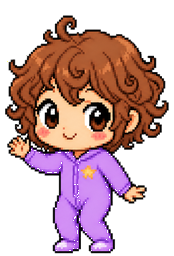
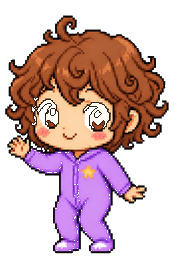
Let the LCD swap a painted desk loop with a girl who sits in the same night room.

diff --git a/Sources/Bed/Chrome.swift b/Sources/Bed/Chrome.swift
@@ -46,10 +46,13 @@ enum PixelAsset {
         let candidates = [
             Bundle.main.resourceURL?.appendingPathComponent(file),
             Bundle.main.resourceURL?.appendingPathComponent("dancer/\(file)"),
+            Bundle.main.resourceURL?.appendingPathComponent("desk/\(file)"),
             URL(fileURLWithPath: FileManager.default.currentDirectoryPath)
                 .appendingPathComponent("Resources/\(file)"),
             URL(fileURLWithPath: FileManager.default.currentDirectoryPath)
                 .appendingPathComponent("Resources/dancer/\(file)"),
+            URL(fileURLWithPath: FileManager.default.currentDirectoryPath)
+                .appendingPathComponent("Resources/desk/\(file)"),
         ]
         return candidates.compactMap { $0 }.first {
             FileManager.default.fileExists(atPath: $0.path)
@@ -61,10 +64,15 @@ enum PixelAsset {
     }
 }
 
+enum LCDScene {
+    case desk(playing: Bool, reduceMotion: Bool)
+    case dancer(playing: Bool, reduceMotion: Bool)
+}
+
 struct LCDPanel<Content: View>: View {
     var lit: Bool
     var snow: Double
-    var backdrop: String? = nil
+    var scene: LCDScene = .desk(playing: false, reduceMotion: false)
     @ViewBuilder var content: () -> Content
 
     private let lip: CGFloat = 7
@@ -89,11 +97,7 @@ struct LCDPanel<Content: View>: View {
 
     private var glass: some View {
         ZStack {
-            if let backdrop {
-                SceneBackdrop(name: backdrop, dim: lit ? 0.10 : 0.22)
-            } else {
-                Rectangle().fill(BedPalette.outline)
-            }
+            tube
             RetroScreen(lit: lit)
             if snow > 0 {
                 PixelSnow()
@@ -101,6 +105,16 @@ struct LCDPanel<Content: View>: View {
             }
         }
         .allowsHitTesting(false)
+    }
+
+    @ViewBuilder
+    private var tube: some View {
+        switch scene {
+        case .desk(let playing, let reduceMotion):
+            DeskTube(playing: playing, reduceMotion: reduceMotion, lit: lit)
+        case .dancer(let playing, let reduceMotion):
+            DancerTube(playing: playing, reduceMotion: reduceMotion, lit: lit)
+        }
     }
 
     private var bezel: some View {
@@ -207,38 +221,122 @@ private struct PixelSnow: View {
     }
 }
 
+enum Face: String {
+    case desk
+    case dancer
+}
+
+struct FaceToggle: View {
+    @Binding var face: Face
+
+    var body: some View {
+        HStack(spacing: 5) {
+            faceButton(.desk, title: "DESK")
+            Text("/")
+                .foregroundStyle(BedPalette.cream.opacity(0.18))
+            faceButton(.dancer, title: "GIRL")
+        }
+        .font(PixelFont.ui(6))
+        .fixedSize(horizontal: true, vertical: true)
+        .accessibilityElement(children: .contain)
+        .accessibilityLabel("Screen")
+    }
+
+    private func faceButton(_ value: Face, title: String) -> some View {
+        let selected = face == value
+        return Button(title) {
+            face = value
+        }
+        .buttonStyle(.plain)
+        .foregroundStyle(BedPalette.cream.opacity(selected ? 0.62 : 0.28))
+        .accessibilityLabel(accessName(value))
+        .accessibilityAddTraits(selected ? .isSelected : [])
+    }
+
+    private func accessName(_ value: Face) -> String {
+        switch value {
+        case .desk: return "Desk image"
+        case .dancer: return "Dancing girl"
+        }
+    }
+}
+
+private struct DeskTube: View {
+    var playing: Bool
+    var reduceMotion: Bool
+    var lit: Bool
+
+    private static let cycle: [String] = [
+        "desk-01", "desk-01", "desk-01",
+        "desk-02", "desk-02",
+        "desk-03", "desk-03",
+        "desk-01", "desk-01",
+        "desk-04",
+        "desk-05", "desk-05",
+        "desk-06",
+        "desk-01"
+    ]
+
+    var body: some View {
+        TimelineView(.animation(minimumInterval: 1.4, paused: reduceMotion || !playing)) { context in
+            SceneBackdrop(name: frameName(at: context.date), dim: lit ? 0.10 : 0.22)
+        }
+    }
+
+    private func frameName(at date: Date) -> String {
+        if reduceMotion || !playing {
+            return "desk-01"
+        }
+        let frames = Self.cycle
+        let index = Int(date.timeIntervalSinceReferenceDate / 1.4) % frames.count
+        return frames[index]
+    }
+}
+
+private struct DancerTube: View {
+    var playing: Bool
+    var reduceMotion: Bool
+    var lit: Bool
+
+    var body: some View {
+        ZStack(alignment: .bottomLeading) {
+            SceneBackdrop(name: "toddler-room", wash: false, anchor: .leading)
+            DancerView(playing: playing, reduceMotion: reduceMotion)
+                .padding(.leading, 10)
+                .padding(.bottom, 84)
+            TubeWash(dim: lit ? 0.10 : 0.22)
+        }
+    }
+}
+
 /// Original pajama sprite. Proportions follow the Life Be pixel-art character tutorial
 /// (equal head and body height, 3/4 view, 1px outline):
 /// https://lifebe.com.au/artistic/pixel-art-tutorial-new-female-character-part-1/
 struct DancerView: View {
     var playing: Bool
-    var making: Bool
     var reduceMotion: Bool
 
     var body: some View {
-        TimelineView(.animation(minimumInterval: 1.0 / 5.0, paused: reduceMotion || (!playing && !making))) { context in
-            ZStack {
-                Ellipse()
-                    .fill(BedPalette.outline.opacity(0.35))
-                    .frame(width: 72, height: 10)
-                    .offset(y: 62)
-                PixelImage(frameName(at: context.date))
-                    .frame(height: 148)
-            }
-            .frame(maxWidth: .infinity, minHeight: 156)
+        TimelineView(.animation(minimumInterval: 1.0 / 5.0, paused: reduceMotion || !playing)) { context in
+            PixelImage(frameName(at: context.date), phosphor: true)
+                .frame(width: 86, height: 104)
         }
-        .accessibilityLabel(playing ? "Character dancing" : (making ? "Character waiting" : "Character idle"))
+        .accessibilityLabel(playing ? "Character dancing" : "Character idle")
     }
+
+    private static let danceCycle: [String] = {
+        let forward = (1...16).map { String(format: "dance-%02d", $0) }
+        let hold = ["dance-16", "dance-16"]
+        let back = (2...15).reversed().map { String(format: "dance-%02d", $0) }
+        return forward + hold + back
+    }()
 
     private func frameName(at date: Date) -> String {
         if reduceMotion {
-            return playing || making ? "dance-01" : "idle"
-        }
-        if making {
-            return Int(date.timeIntervalSinceReferenceDate * 2) % 2 == 0 ? "idle" : "dance-03"
+            return playing ? "dance-01" : "idle"
         }
         if playing {
-            let frames = (1...16).map { String(format: "dance-%02d", $0) }
+            let frames = Self.danceCycle
             let index = Int(date.timeIntervalSinceReferenceDate * 5) % frames.count
             return frames[index]
         }
@@ -248,17 +346,24 @@ struct DancerView: View {
 
 struct PixelImage: View {
     var name: String
+    var phosphor: Bool = false
 
-    init(_ name: String) {
+    init(_ name: String, phosphor: Bool = false) {
         self.name = name
+        self.phosphor = phosphor
     }
 
     var body: some View {
         if let image = PixelAsset.nsImage(name) {
-            Image(nsImage: image)
+            let sprite = Image(nsImage: image)
                 .resizable()
                 .interpolation(.none)
                 .scaledToFit()
+            if phosphor {
+                sprite.modifier(PhosphorTint())
+            } else {
+                sprite
+            }
         } else {
             Text("🛏")
                 .font(.system(size: 44))
@@ -266,9 +371,44 @@ struct PixelImage: View {
     }
 }
 
+private struct PhosphorTint: ViewModifier {
+    func body(content: Content) -> some View {
+        content
+            .saturation(0.78)
+            .contrast(0.86)
+            .colorMultiply(Color(red: 0.68, green: 0.54, blue: 0.40))
+            .mask { content }
+            .compositingGroup()
+    }
+}
+
+private struct TubeWash: View {
+    var dim: Double
+
+    var body: some View {
+        ZStack {
+            Rectangle()
+                .fill(Color.black.opacity(dim))
+            LinearGradient(
+                stops: [
+                    .init(color: .black.opacity(0.28), location: 0),
+                    .init(color: .clear, location: 0.24),
+                    .init(color: .clear, location: 0.62),
+                    .init(color: .black.opacity(0.32), location: 1)
+                ],
+                startPoint: .top,
+                endPoint: .bottom
+            )
+        }
+        .allowsHitTesting(false)
+    }
+}
+
 private struct SceneBackdrop: View {
     var name: String
-    var dim: Double
+    var dim: Double = 0
+    var wash: Bool = true
+    var anchor: Alignment = .trailing
 
     var body: some View {
         GeometryReader { geo in
@@ -276,28 +416,20 @@ private struct SceneBackdrop: View {
                 if let image = PixelAsset.nsImage(name) {
                     Image(nsImage: image)
                         .resizable()
+                        .interpolation(.none)
                         .scaledToFill()
                         .frame(
                             width: geo.size.width,
                             height: geo.size.height,
-                            alignment: .trailing
+                            alignment: anchor
                         )
                         .clipped()
                 } else {
                     Rectangle().fill(BedPalette.well)
                 }
-                Rectangle()
-                    .fill(Color.black.opacity(dim))
-                LinearGradient(
-                    stops: [
-                        .init(color: .black.opacity(0.28), location: 0),
-                        .init(color: .clear, location: 0.24),
-                        .init(color: .clear, location: 0.62),
-                        .init(color: .black.opacity(0.32), location: 1)
-                    ],
-                    startPoint: .top,
-                    endPoint: .bottom
-                )
+                if wash {
+                    TubeWash(dim: dim)
+                }
             }
         }
         .allowsHitTesting(false)

diff --git a/Sources/Bed/ContentView.swift b/Sources/Bed/ContentView.swift
@@ -145,6 +145,7 @@ final class BedModel: ObservableObject {
 struct ContentView: View {
     @ObservedObject var model: BedModel
     @Environment(\.accessibilityReduceMotion) private var reduceMotion
+    @AppStorage("lcdFace") private var face: Face = .dancer
     @State private var snowUntil: Date?
 
     var body: some View {
@@ -160,6 +161,9 @@ struct ContentView: View {
         .preferredColorScheme(.dark)
         .onChange(of: model.station.name) { _, _ in
             flashSnow(reduceMotion ? 0 : 0.2)
+        }
+        .onChange(of: face) { _, _ in
+            flashSnow(reduceMotion ? 0 : 0.12)
         }
     }
 
@@ -198,7 +202,7 @@ struct ContentView: View {
         return LCDPanel(
             lit: model.player.isPlaying,
             snow: snow,
-            backdrop: "night-desk"
+            scene: lcdScene
         ) {
             VStack(alignment: .leading, spacing: 0) {
                 HStack(alignment: .firstTextBaseline, spacing: 8) {
@@ -209,14 +213,14 @@ struct ContentView: View {
                         .font(PixelFont.ui(7))
                         .foregroundStyle(BedPalette.creamDim)
                     Spacer()
+                    FaceToggle(face: $face)
                     Text(lcdClock)
                         .font(PixelFont.ui(7))
                         .foregroundStyle(BedPalette.lamp.opacity(0.85))
                 }
 
-                Spacer(minLength: 0)
-                    .frame(minHeight: 148)
-                    .accessibilityHidden(true)
+                faceStage
+                    .padding(.top, 6)
 
                 stationReadout
                     .padding(.top, 8)
@@ -254,6 +258,24 @@ struct ContentView: View {
             .buttonStyle(TactileButtonStyle(kind: .skip))
             .accessibilityLabel("Next station")
         }
+    }
+
+    private var lcdScene: LCDScene {
+        switch face {
+        case .desk:
+            return .desk(playing: model.player.isPlaying, reduceMotion: reduceMotion)
+        case .dancer:
+            return .dancer(playing: model.player.isPlaying, reduceMotion: reduceMotion)
+        }
+    }
+
+    private var faceStage: some View {
+        Color.clear
+            .frame(maxWidth: .infinity, minHeight: 148)
+            .accessibilityLabel(face == .dancer
+                ? (model.player.isPlaying ? "Character dancing" : "Character idle")
+                : "")
+            .accessibilityHidden(face != .dancer)
     }
 
     private var stationReadout: some View {
